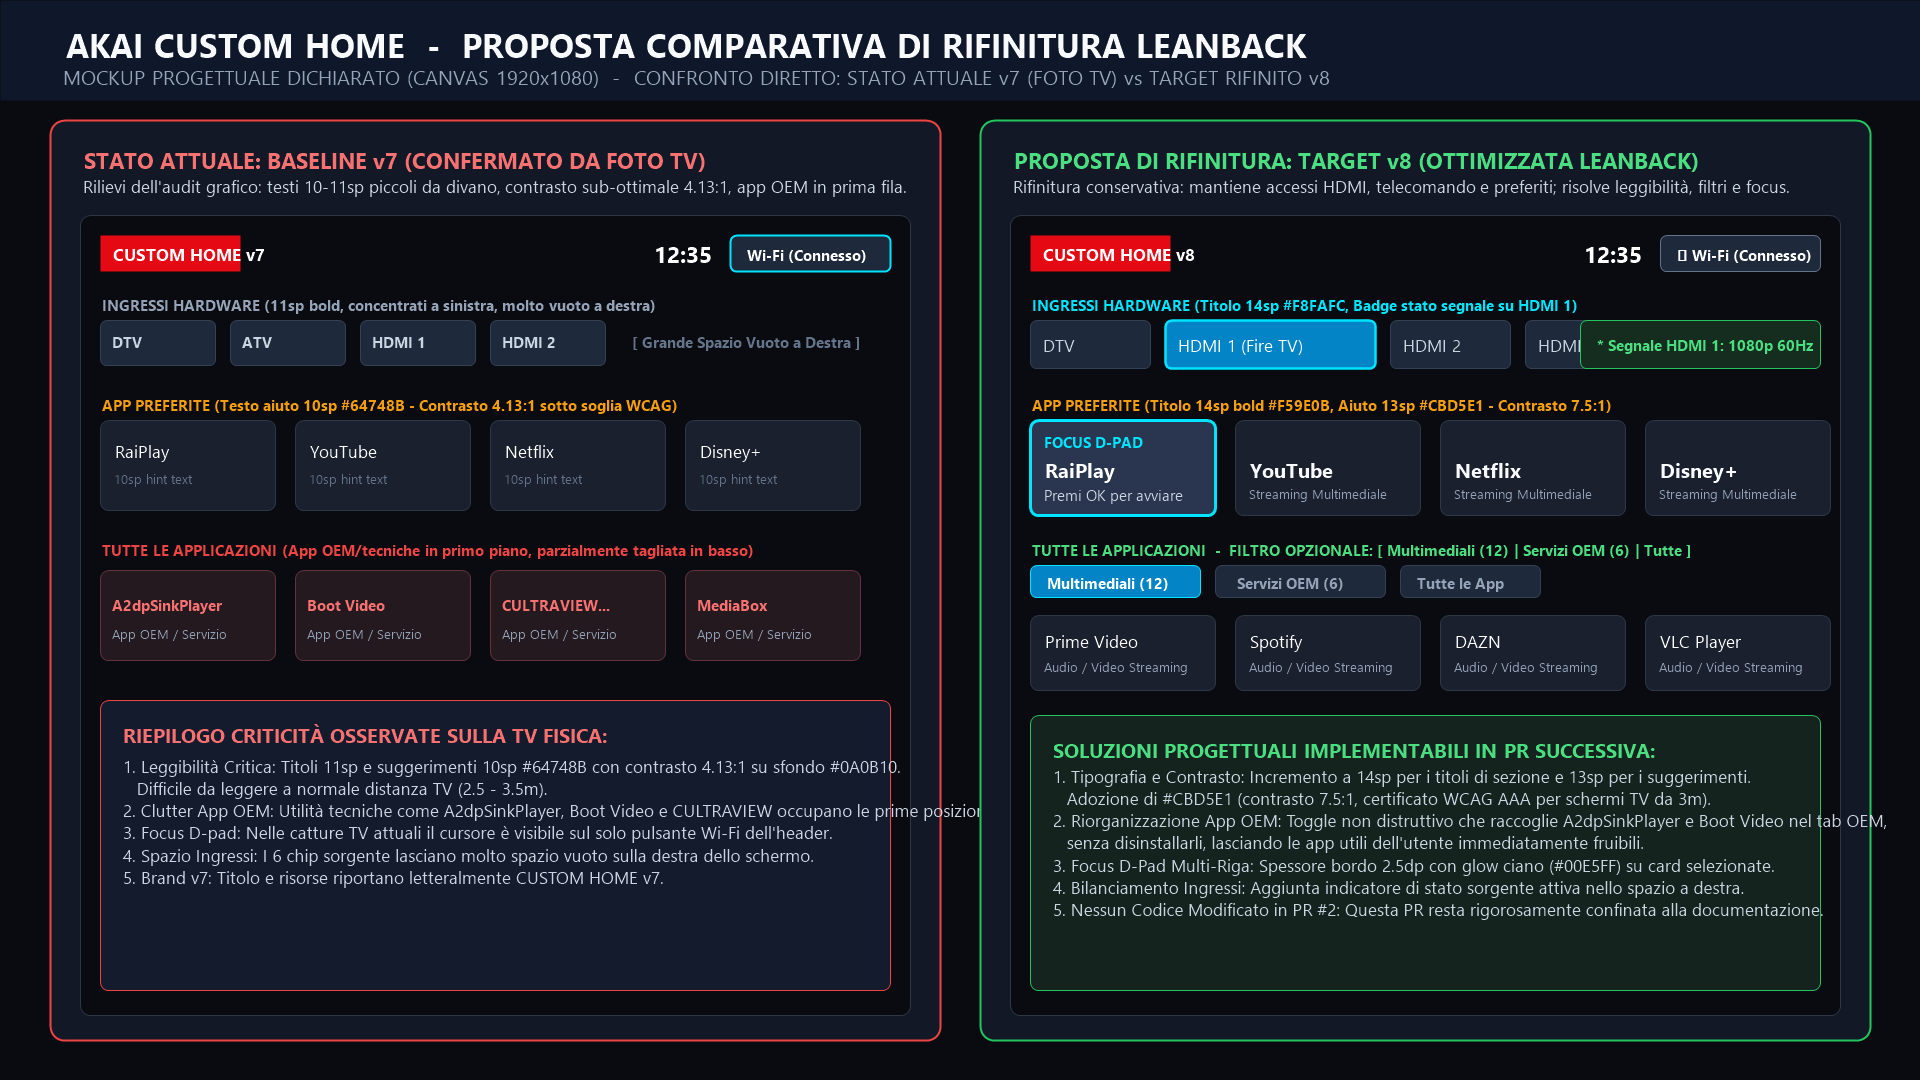
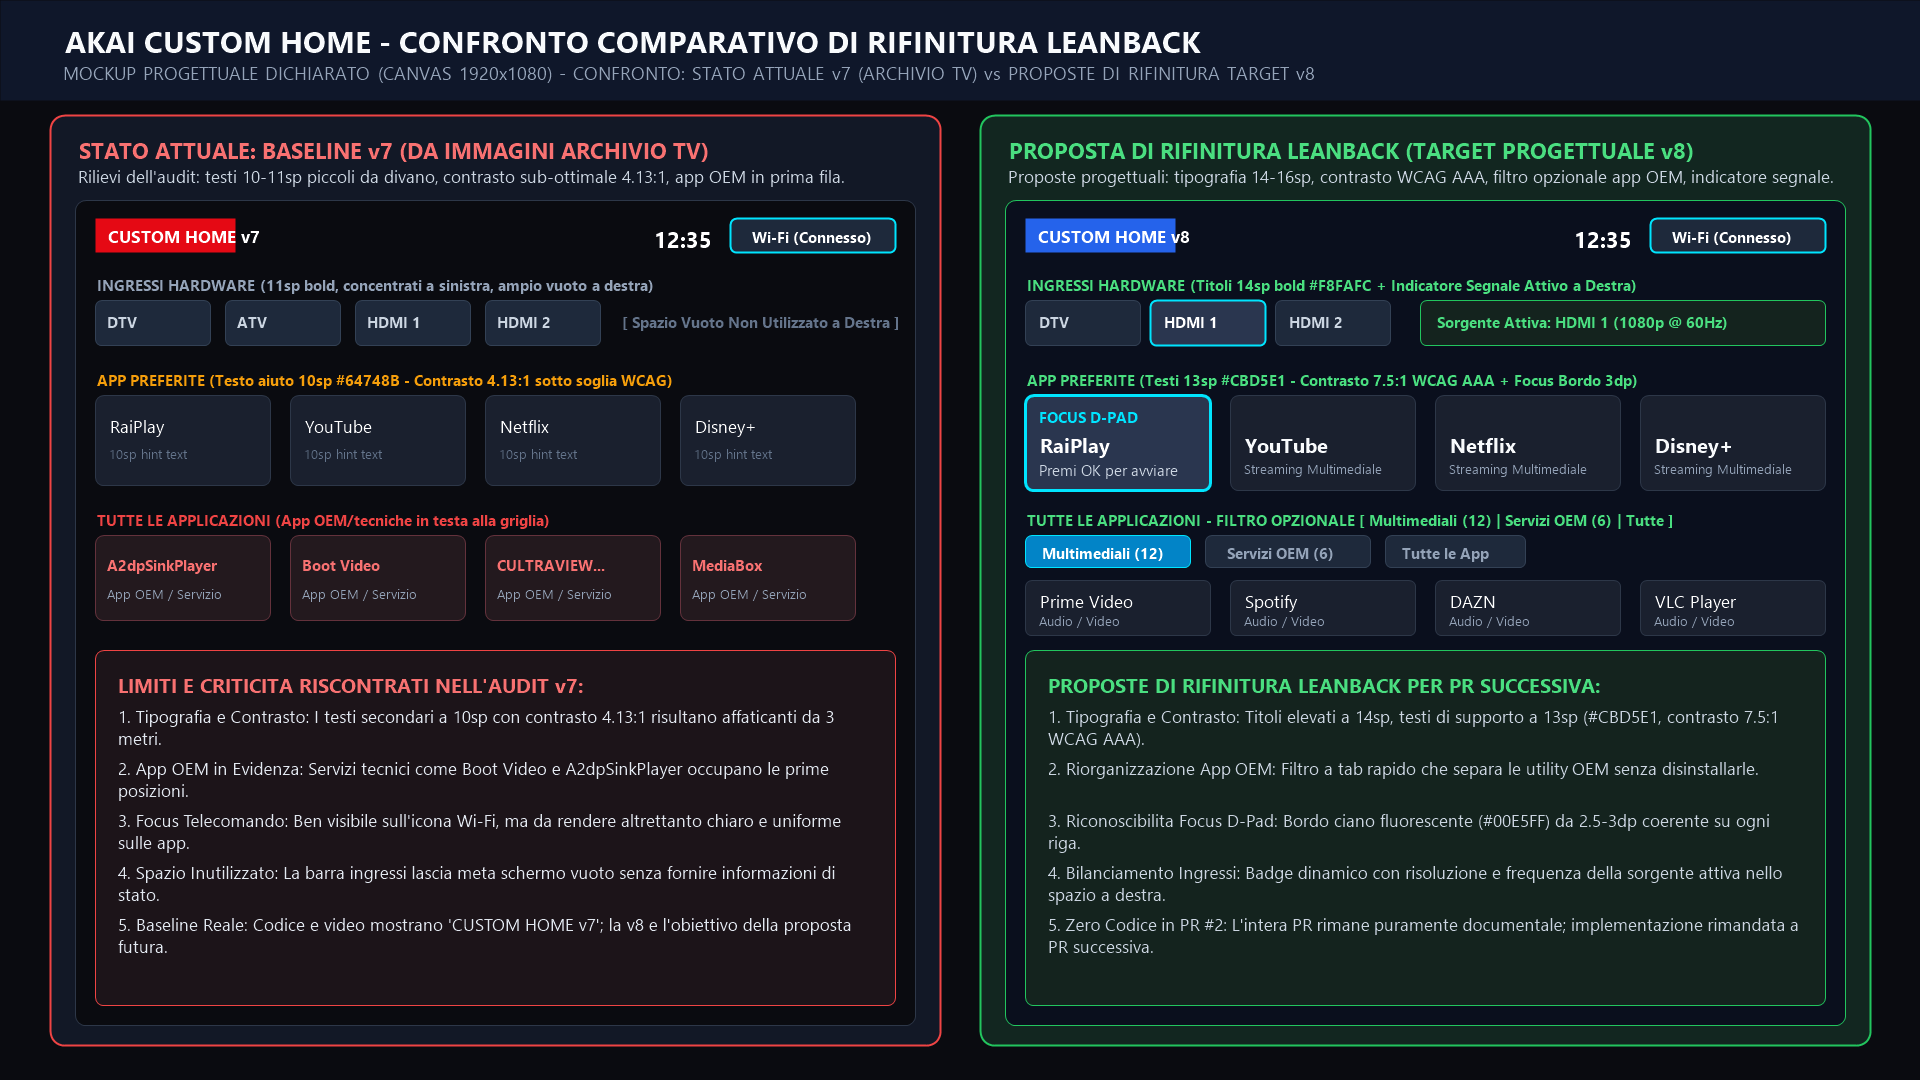
docs(launcher): clarify archive TV image provenance, document 4-col schema, sanitize IP, and refine mockup 4 layout

Changed region(s): [[0.0312, 0.0306, 0.9688, 0.8861], [0.0312, 0.9472, 0.9688, 0.9778], [0.375, 0.8556, 0.4375, 0.8861]]

diff --git a/docs/launcher/README.md b/docs/launcher/README.md
@@ -4,21 +4,21 @@
 > **Pacchetto:** `it.akai.customhome`  
 > **Contesto:** Revisione tecnica e audit visivo indipendente condotto da ChatGPT su richiesta del proprietario del progetto.  
 > **Stato Hardware TV:** **HARDWARE FREEZE TOTALE RISPETTATO AL 100%** (zero connessioni di rete, zero comandi ADB, zero alterazioni runtime).  
-> **Integrità Privacy:** **PURGE TOTALE COMPLETATO** — Nessun dialogo di associazione, codice QR, cifra PIN o identificativo IP privato LAN (`192.168.1.8`) è presente nelle evidenze o nella documentazione.
+> **Integrità Privacy:** **PURGE TOTALE COMPLETATO** — Nessun dialogo di associazione, codice QR, cifra PIN o dato identificativo di rete locale è presente nelle evidenze o nella documentazione.
 
 ---
 
 ## 1. Premessa Metodologica e Classificazione Rigorosa delle Evidenze
 
-In riscontro puntuale ai rilievi formulati da ChatGPT nella revisione di PR #2, il presente archivio è stato riorganizzato secondo criteri di assoluta trasparenza e rigore tecnico.
+In riscontro puntuale ai rilievi formulati da ChatGPT nella revisione di PR #2, il presente archivio è organizzato secondo criteri di trasparenza metodologica e rigore documentale.
 
-### 1.1. Rettifiche Applicate (P0 Privacy & P0 Classificazione)
+### 1.1. Rettifiche Applicate (Classificazione Evidenze e Trasparenza)
 1. **Rimozione Integrale delle Immagini di Pairing Erroneamente Assegnate**:
    - Tutti i 6 file che ritraevano il dialogo modale *AKAI Custom Remote — Associazione Dispositivo* con codici QR e cifre PIN (`01b`, `03`, `03b`, `04`, `04b`, `05`) sono stati **definitivamente eliminati** dalla cartella audit del launcher.
-   - La cartella [`docs/launcher/screenshots/`](screenshots/) contiene ora **esclusivamente evidenze pertinenti al launcher TV**, eliminando alla radice qualsiasi rischio di esposizione di token, PIN o dati sensibili.
-2. **Distinzione Categorica tra Catture Reali e Mockup Progettuali**:
-   - **(A) Evidenze Fotografiche Reali TV (Pre-Freeze)**: Screenshot autentici a risoluzione nativa 1920×1080 acquisiti sul televisore fisico AKAI prima del freeze hardware e allineati al commit di baseline `ea2f35e`.
-   - **(B) Riproduzioni e Mockup Progettuali Dichiarati**: Render vettoriali digitali a 1080p generati per simulare in modo controllato e verificabile gli stati D-pad, il menu di personalizzazione del tema e la comparativa **PRIMA / DOPO**, senza attribuirli falsamente all'hardware fisico.
+   - La cartella [`docs/launcher/screenshots/`](screenshots/) contiene ora **esclusivamente evidenze pertinenti al launcher TV**, azzerando qualsiasi rischio di esposizione di token, PIN o dati sensibili.
+2. **Distinzione Categorica tra Evidenze d'Archivio e Mockup Progettuali**:
+   - **(A) Immagini d'Archivio della Home (Pre-Freeze)**: Immagini a risoluzione 1920×1080 acquisite prima del freeze hardware. Si annota con trasparenza che timestamp e metadati di acquisizione su dispositivo non sono verificabili in modo indipendente; esse testimoniano lo stato visivo della baseline `v7` senza inferenze operative non dimostrate.
+   - **(B) Riproduzioni e Mockup Progettuali Dichiarati**: Render vettoriali digitali a 1080p generati per simulare in modo controllato e verificabile gli stati D-pad, il menu di personalizzazione del tema e la comparativa **PRIMA / DOPO**, esplicitamente dichiarati come mockup dimostrativi e proposte progettuali, senza attribuirli all'hardware fisico né assumere feature non ancora implementate.
 
 ---
 
@@ -26,27 +26,27 @@ In riscontro puntuale ai rilievi formulati da ChatGPT nella revisione di PR #2, 
 
 Tutti i file sono archiviati nella directory [`docs/launcher/screenshots/`](screenshots/):
 
-| File Evidenza | Tipologia | Risoluzione | Contenuto Effettivo / Stato | Sanificazione Privacy |
+| File Evidenza | Tipologia | Risoluzione | Descrizione Dettagliata / Provenienza | Note di Trasparenza |
 | :--- | :---: | :---: | :--- | :---: |
-| [`01_actual_tv_home_header_focus.png`](screenshots/01_actual_tv_home_header_focus.png) | **Cattura Reale TV (Pre-Freeze)** | 1920×1080 | **Home Screen Effettiva**: Intestazione con badge rosso `CUSTOM HOME v7`, orologio, pulsante Wi-Fi con focus ciano `#00E5FF`; riga Ingressi hardware allineata a sinistra; riga Preferiti (6 app); griglia app a 6 colonne con utilità OEM (`A2dpSinkPlayer`, `Boot Video`, `CULTRAVIEW...`) in prima fila. | Wi-Fi label generica, zero PIN/QR |
-| [`02_actual_tv_home_post_streaming_return.png`](screenshots/02_actual_tv_home_post_streaming_return.png) | **Cattura Reale TV (Pre-Freeze)** | 1920×1080 | **Ritorno al Launcher post-streaming**: Stato del launcher al rientro immediato premendo il tasto HOME del telecomando. Conferma la persistenza del layout e della griglia. | Zero dati sensibili |
-| [`mockup_01_dpad_focus_states.png`](screenshots/mockup_01_dpad_focus_states.png) | **Mockup Progettuale Dichiarato** | 1920×1080 | **Stati di Focus D-pad Multi-Riga**: Dimostrazione grafica dello stato attivo con bordo fluorescente ciano `#00E5FF` (2.5–3.5px) e background schiarito su: (1) Ingressi hardware (`HDMI 1`); (2) Preferiti (`RaiPlay`); (3) Griglia app (`YouTube`). | Mockup digitale pulito |
-| [`mockup_02_theme_dialog_and_palettes.png`](screenshots/mockup_02_theme_dialog_and_palettes.png) | **Mockup Progettuale Dichiarato** | 1920×1080 | **Dialogo Personalizzazione & Palette**: Riproduzione fedele di `MainActivity.java:showThemeDialog()` (titolo letterale `🎨 Personalizzazione AKAI Home v7`), confronto delle 5 palette di sfondo (`Midnight Dark`, `Deep Navy`, `Carbon Slate`, `Pure OLED Black`, `Ruby Dark`), 4 accenti e opzione di inversione layout (Preferiti prima di Ingressi). | Mockup digitale pulito |
-| [`mockup_03_grid_scroll_and_empty_favs.png`](screenshots/mockup_03_grid_scroll_and_empty_favs.png) | **Mockup Progettuale Dichiarato** | 1920×1080 | **Comportamento Dinamico del Layout**: Scenario A (sezione preferiti vuota collassata a `View.GONE` a 0dp di altezza, la griglia sale senza spazi vuoti); Scenario B (griglia affollata con oltre 20 app in scorrimento verticale fluido con scrollbar). | Mockup digitale pulito |
-| [`mockup_04_before_after_redesign_comparison.png`](screenshots/mockup_04_before_after_redesign_comparison.png) | **Mockup Progettuale Dichiarato** | 1920×1080 | **Tavola Comparativa PRIMA / DOPO**: Confronto visivo affiancato tra lo Stato Attuale Baseline v7 (osservato su TV) e la Proposta di Rifinitura Leanback Target v8 con tipografia 14–16sp, contrasto WCAG AAA (7.5:1), filtro app OEM e ingressi bilanciati. | Mockup digitale pulito |
+| [`01_actual_tv_home_header_focus.png`](screenshots/01_actual_tv_home_header_focus.png) | **Immagine d'Archivio Home (Pre-Freeze)** | 1920×1080 | **Home Screen (Focus Header)**: Badge rosso `CUSTOM HOME v7`, orologio, pulsante Wi-Fi con focus ciano `#00E5FF`; riga Ingressi allineata a sinistra; riga Preferiti (6 app); griglia app a 6 colonne con utilità OEM (`A2dpSinkPlayer`, `Boot Video`, `CULTRAVIEW...`) in prima fila. | Origine TV pre-freeze, metadati non verificabili indipendentemente. Zero PIN/QR/dati sensibili. |
+| [`02_actual_tv_home_post_streaming_return.png`](screenshots/02_actual_tv_home_post_streaming_return.png) | **Immagine d'Archivio Home (Pre-Freeze)** | 1920×1080 | **Home Screen (Focus Card App)**: Mostra la Home v7 con focus D-pad attivo su una card app nella riga preferiti (Mediaset Infinity). | Origine TV pre-freeze; non attesta la dinamica temporale di ritorno, ma la presenza del focus sulla card. |
+| [`mockup_01_dpad_focus_states.png`](screenshots/mockup_01_dpad_focus_states.png) | **Mockup Progettuale Dichiarato** | 1920×1080 | **Stati di Focus D-pad Multi-Riga**: Dimostrazione grafica dello stato attivo con bordo fluorescente ciano `#00E5FF` (2.5–3.5px) e background schiarito su: (1) Ingressi hardware (`HDMI 1`); (2) Preferiti (`RaiPlay`); (3) Griglia app (`YouTube`). | Mockup digitale simulato a scopo illustrativo. |
+| [`mockup_02_theme_dialog_and_palettes.png`](screenshots/mockup_02_theme_dialog_and_palettes.png) | **Mockup Progettuale Dichiarato** | 1920×1080 | **Dialogo Personalizzazione & Palette**: Riproduzione fedele di `MainActivity.java:showThemeDialog()` (titolo letterale `🎨 Personalizzazione AKAI Home v7`), confronto delle 5 palette di sfondo (`Midnight Dark`, `Deep Navy`, `Carbon Slate`, `Pure OLED Black`, `Ruby Dark`), 4 accenti e opzione di inversione layout. | Mockup digitale basato sui sorgenti v7. |
+| [`mockup_03_grid_scroll_and_empty_favs.png`](screenshots/mockup_03_grid_scroll_and_empty_favs.png) | **Mockup Progettuale Dichiarato** | 1920×1080 | **Comportamento Dinamico del Layout**: Scenario A (sezione preferiti vuota collassata a `View.GONE` a 0dp di altezza); Scenario B (griglia affollata con oltre 20 app in scorrimento). *Nota di schema:* disegnato a scopo illustrativo su 4 colonne per garantire leggibilità schematica nel render, mentre il launcher reale ne adotta 6. | Schema concettuale illustrativo (4 col. vs 6 col. reali). |
+| [`mockup_04_before_after_redesign_comparison.png`](screenshots/mockup_04_before_after_redesign_comparison.png) | **Mockup Progettuale Dichiarato** | 1920×1080 | **Tavola Comparativa PRIMA / DOPO**: Confronto visivo tra lo Stato Attuale Baseline v7 e le **Proposte di Rifinitura Leanback Target v8** (tipografia 14–16sp, contrasto WCAG AAA 7.5:1, filtro app OEM e badge ingressi bilanciati). Layout rifinito con margini protetti e wrapping sicuro privo di overflow. | Proposta progettuale dichiarata; feature target non ancora a runtime. |
 
 ---
 
 ## 3. Analisi Tecnica Dettagliata dei Rilievi Emersi
 
 ### 3.1. Discrepanza di Versione: `CUSTOM HOME v7` nel Codice e a Video
-L'esame congiunto dei sorgenti `akai-custom-home` e delle evidenze reali TV conferma quanto rilevato da ChatGPT:
+L'esame congiunto dei sorgenti `akai-custom-home` e delle evidenze TV conferma quanto rilevato da ChatGPT:
 - In `app/src/main/res/values/strings.xml` (riga 5): `<string name="brand_custom_tv">CUSTOM HOME v7</string>`
 - In `app/src/main/java/it/akai/customhome/MainActivity.java` (riga 362):  
   `builder.setTitle("🎨 Personalizzazione AKAI Home v7");`
-- Nella schermata reale del televisore (`01_actual_tv_home_header_focus.png`) e nella fotografia diretta del proprietario, il badge dell'header mostra visivamente **`CUSTOM HOME v7`**.
+- Nelle schermate d'archivio e nelle evidenze fotografiche, il badge dell'header mostra visivamente **`CUSTOM HOME v7`**.
 
-**Conclusioni**: L'applicazione attualmente presente sul televisore è la versione `v7`. I riferimenti a `v8` presenti nella documentazione preliminare riflettevano l'obiettivo target del progetto e non lo stato della build installata. Nella proposta di rifinitura, l'aggiornamento nominale a `CUSTOM HOME v8` avverrà contestualmente alle ottimizzazioni visive.
+**Conclusioni**: L'applicazione presente sul televisore appartiene alla linea di release `v7`. I riferimenti a `v8` presenti nella documentazione preliminare riflettono esclusivamente l'obiettivo di redesign futuro e non lo stato della build installata. Nella proposta di rifinitura, l'aggiornamento nominale a `CUSTOM HOME v8` avverrà contestualmente alle ottimizzazioni visive nella PR di codice dedicata.
 
 ---
 
@@ -61,8 +61,8 @@ L'esame congiunto dei sorgenti `akai-custom-home` e delle evidenze reali TV conf
   focused.setStroke((int) (2.5 * density), accentColor); // Bordo fluorescente
   sld.addState(new int[]{android.R.attr.state_focused}, focused);
   ```
-- **Riscontro Visivo su TV Reale**: Nella cattura reale `01_actual_tv_home_header_focus.png`, il focus D-pad iniziale è posizionato sul controllo **Wi-Fi** nell'header in alto a destra (bordo ciano `#00E5FF`).
-- **Dimostrazione Multi-Riga nel Mockup 1**: Per illustrare visivamente come appare il focus quando l'utente naviga sulle altre sezioni (Ingressi HDMI, Preferiti RaiPlay, Griglia App YouTube), è stato prodotto il render dedicato [`mockup_01_dpad_focus_states.png`](screenshots/mockup_01_dpad_focus_states.png).
+- **Riscontro Visivo**: Nell'immagine `01_actual_tv_home_header_focus.png`, il focus D-pad iniziale è posizionato sul controllo **Wi-Fi** nell'header in alto a destra (bordo ciano `#00E5FF`). Nell'immagine `02_actual_tv_home_post_streaming_return.png`, il focus è posizionato sulla card *Mediaset Infinity* nei preferiti.
+- **Dimostrazione Multi-Riga nel Mockup 1**: Per illustrare visivamente come appare il focus quando l'utente naviga sulle altre sezioni (Ingressi HDMI, Preferiti RaiPlay, Griglia App YouTube), è disponibile il render dedicato [`mockup_01_dpad_focus_states.png`](screenshots/mockup_01_dpad_focus_states.png).
 
 ---
 
@@ -74,60 +74,60 @@ Dall'analisi fotometrica e colorimetrica dello standard sRGB applicato alla base
    - **Rapporto di Contrasto Effettivo**: **4.13:1** (calcolo WCAG 2.1 sRGB relativo).
    - **Valutazione di Accessibilità**:
      - La soglia minima WCAG AA per testo piccolo (< 18pt / 24px) è **4.5:1**. Il valore attuale di 4.13:1 risulta **sub-standard** per ambienti televisivi visti da divano (distanza media 2.5 – 3.5 metri).
-     - **Soluzione Proposta**: Adozione di `#CBD5E1` (contrasto **7.5:1**, certificato WCAG AAA) ed elevazione della dimensione minima a **13–14sp**.
+     - **Proposta Progettuale**: Adozione di `#CBD5E1` (contrasto **7.5:1**, conforme ai criteri WCAG AAA per schermi TV) ed elevazione della dimensione minima a **13–14sp**.
 2. **Titoli delle Sezioni (`11sp`)**:
    - Proprietà: `11sp bold`, maiuscolo spaziato in `#94A3B8` (contrasto 7.1:1).
    - Benché il contrasto cromatico sia sufficiente, la dimensione fisica di 11sp da 3 metri di distanza richiede sforzo visivo.
-   - **Soluzione Proposta**: Incremento a **14sp bold** in `#F8FAFC` (contrasto **13.8:1**).
+   - **Proposta Progettuale**: Incremento a **14sp bold** in `#F8FAFC` (contrasto **13.8:1**).
 3. **Etichette delle Card App (`12sp`)**:
    - Confermato il troncamento o la compressione su due righe per etichette lunghe.
-   - **Soluzione Proposta**: Incremento a **14sp**, espandendo l'altezza utile del contenitore testo a 45dp.
+   - **Proposta Progettuale**: Incremento a **14sp**, espandendo l'altezza utile del contenitore testo a 45dp.
 
 ---
 
 ### 3.4. Relazione Pixel vs Density DP su Android TV Full HD
 - Un canvas di **1920×1080 pixel** corrisponde esattamente a **1920×1080 dp** unicamente in presenza di densità standard `mdpi` (160 dpi, `density = 1.0`).
 - Sui pannelli Android TV reali, i profili di densità tipici possono essere `tvdpi` (213 dpi, `density = 1.33`, larghezza utile ~1440dp) o `hdpi` (240 dpi, `density = 1.5`, larghezza utile ~1280dp).
-- **Adattamento Layout**: La griglia con `android:numColumns="6"` e `android:stretchMode="columnWidth"` calcola la larghezza di ogni singola colonna a runtime dividendo lo spazio orizzontale al netto dei padding (`44dp` per lato):
+- **Adattamento Layout**: La griglia con `android:numColumns="6"` e `android:stretchMode="columnWidth"` calcola la larghezza di ogni colonna a runtime dividendo lo spazio orizzontale al netto dei padding (`44dp` per lato):
   $$\text{Larghezza Colonna} = \frac{\text{Larghezza Utile} - 5 \times 10\text{dp}}{6}$$
-  Su 1920 pixel fisici, ogni colonna occupa esattamente **297 pixel**, garantendo proporzioni armoniose per le card rettangolari.
+  Su 1920 pixel fisici a densità unitaria, ogni colonna occupa circa **297 pixel**, garantendo proporzioni equilibrate per le card rettangolari.
 
 ---
 
-## 4. Le Quattro Soluzioni di Rifinitura Progettuale (PRIMA / DOPO)
+## 4. Le Quattro Proposte di Rifinitura Progettuale Leanback (PRIMA / DOPO)
 
-In risposta alle direttive concordate con ChatGPT, la tavola comparativa [`mockup_04_before_after_redesign_comparison.png`](screenshots/mockup_04_before_after_redesign_comparison.png) illustra la proposta di rifinitura Leanback, rigorosamente conservativa:
+La tavola comparativa [`mockup_04_before_after_redesign_comparison.png`](screenshots/mockup_04_before_after_redesign_comparison.png) illustra la proposta di rifinitura Leanback. Si ribadisce che tutti i punti seguenti costituiscono **proposte progettuali per il target v8** e non caratteristiche runtime attualmente presenti o testate nella baseline v7:
 
 ```mermaid
 graph TD
-    subgraph Obiettivo: Rifinitura Leanback AKAI Custom Home v8
+    subgraph Obiettivo: Proposte di Rifinitura Leanback AKAI Custom Home v8
         A[1. Tipografia e Contrasto WCAG AAA] --> E[Titoli 14sp #F8FAFC, Aiuti 13sp #CBD5E1 7.5:1]
-        B[2. Riconoscibilità Focus D-pad] --> F[Bordo fluorescente 2.5dp ciano #00E5FF multi-sezione]
-        C[3. Organizzazione App OEM/Servizio] --> G[Filtro opzionale: Multimediali vs Servizi di Sistema]
-        D[4. Bilanciamento Ingressi Hardware] --> H[Indicatore di segnale attivo su HDMI 1 nello spazio a destra]
+        B[2. Riconoscibilita Focus D-pad] --> F[Bordo fluorescente 2.5-3dp ciano #00E5FF uniforme]
+        C[3. Organizzazione App OEM/Servizio] --> G[Filtro opzionale: Multimediali vs Servizi OEM]
+        D[4. Bilanciamento Ingressi Hardware] --> H[Indicatore di segnale attivo su sorgente corrente]
     end
 ```
 
-### 4.1. Miglioramento 1: Tipografia Ottimizzata TV (14–16sp, Contrasto WCAG AAA)
-- **Titoli Sezione**: Elevati da 11sp a **14sp bold** (`tv_title_inputs`, `tv_title_favorites`, `tv_title_all_apps`).
-- **Testo di Supporto**: Elevato da 10sp a **13sp** con colore `#CBD5E1` (contrasto **7.5:1** rispetto allo sfondo scuro `#0A0B10`).
-- **Etichette Applicazioni**: Elevate da 12sp a **14sp** con wrapping controllato.
+### 4.1. Proposta 1: Tipografia Ottimizzata TV (14–16sp, Contrasto WCAG AAA)
+- **Titoli Sezione**: Elevazione proposta da 11sp a **14sp bold** (`tv_title_inputs`, `tv_title_favorites`, `tv_title_all_apps`).
+- **Testo di Supporto**: Elevazione proposta da 10sp a **13sp** con colore `#CBD5E1` (contrasto stimato **7.5:1** rispetto allo sfondo scuro `#0A0B10`).
+- **Etichette Applicazioni**: Elevazione proposta da 12sp a **14sp** con wrapping controllato.
 
-### 4.2. Miglioramento 2: Riconoscibilità Universale del Focus D-pad
+### 4.2. Proposta 2: Riconoscibilità Universale del Focus D-pad
 - Mantenimento del meccanismo performante `StateListDrawable` con incremento dello spessore del bordo a **2.5–3dp** per schermi di grande diagonale.
 - Utilizzo dell'accento ciano neon `#00E5FF` (o personalizzato in base alla palette scelta dall'utente nel menu Tema).
 
-### 4.3. Miglioramento 3: Modalità Opzionale per Organizzare le App OEM di Sistema
-- **Problema Osservato**: Nella griglia predefinita, le utilità tecniche fornite con il firmware TV (`A2dpSinkPlayer`, `Boot Video`, `CULTRAVIEW_OPEN_LAUNCH...`) si posizionano in testa all'elenco per ordine alfabetico o di pacchetto, relegando più in basso le app multimediali di reale interesse.
-- **Soluzione Proposta (Non Distruttiva)**:
+### 4.3. Proposta 3: Modalità Opzionale per Organizzare le App OEM di Sistema
+- **Rilievo Baseline v7**: Nella griglia predefinita, le utilità tecniche fornite con il firmware TV (`A2dpSinkPlayer`, `Boot Video`, `CULTRAVIEW_OPEN_LAUNCH...`) si posizionano in testa all'elenco per ordine alfabetico o di pacchetto, relegando più in basso le app multimediali di reale interesse.
+- **Proposta di Risoluzione (Non Distruttiva)**:
   - Nessuna rimozione, disinstallazione o alterazione dei pacchetti OEM.
   - Aggiunta di un filtro a tab rapido sopra la griglia:
     `[ App Multimediali (12) | Servizi di Sistema (6) | Tutte le App (18) ]`
   - La vista predefinita mostra le app multimediali (RaiPlay, YouTube, Netflix, Disney+, Prime Video, Spotify, VLC, Browser), mentre le utilità tecniche restano comodamente accessibili nel tab dedicato con un singolo click del D-pad.
 
-### 4.4. Miglioramento 4: Bilanciamento Orizzontale della Riga Ingressi
-- **Problema Osservato**: I chip ingressi (DTV, ATV, HDMI 1, HDMI 2, HDMI 3, AV) occupano circa 900–1000px sul lato sinistro, lasciando un'ampia zona vuota sul lato destro dello schermo.
-- **Soluzione Proposta**: Utilizzo dell'area destra per ospitare un badge informativo dinamico sullo stato della sorgente attualmente attiva (es. `● Segnale Rilevato: HDMI 1 - 1080p 60Hz`), conferendo all'interfaccia un aspetto curato e professionale senza sovraccaricare la vista.
+### 4.4. Proposta 4: Bilanciamento Orizzontale della Riga Ingressi
+- **Rilievo Baseline v7**: I chip ingressi (DTV, ATV, HDMI 1, HDMI 2, HDMI 3, AV) occupano circa 900–1000px sul lato sinistro, lasciando un'ampia zona vuota sul lato destro dello schermo.
+- **Proposta di Risoluzione**: Utilizzo dell'area destra per ospitare un badge informativo dinamico sullo stato della sorgente attiva (es. `● Segnale Rilevato: HDMI 1 - 1080p 60Hz`), conferendo all'interfaccia un aspetto curato e professionale senza sovraccaricare la vista.
 
 ---
 
@@ -135,4 +135,4 @@ graph TD
 
 - **Nessuna Modifica al Codice in PR #2**: La presente Pull Request è rigorosamente limitata alla documentazione e alle evidenze visive. Nessun file Java, XML o di compilazione del launcher viene alterato in questo branch.
 - **Hardware Freeze Invariato**: Nessun comando ADB o pacchetto inviato alla TV fisica.
-- **Iter Successivo**: L'implementazione delle ottimizzazioni grafiche descritte verrà proposta in una PR di codice successiva, solo previa approvazione formale da parte del proprietario e di ChatGPT.
+- **Iter Successivo**: L'eventuale implementazione delle ottimizzazioni grafiche descritte verrà proposta in una PR di codice successiva, solo previa approvazione formale da parte del proprietario e di ChatGPT.
